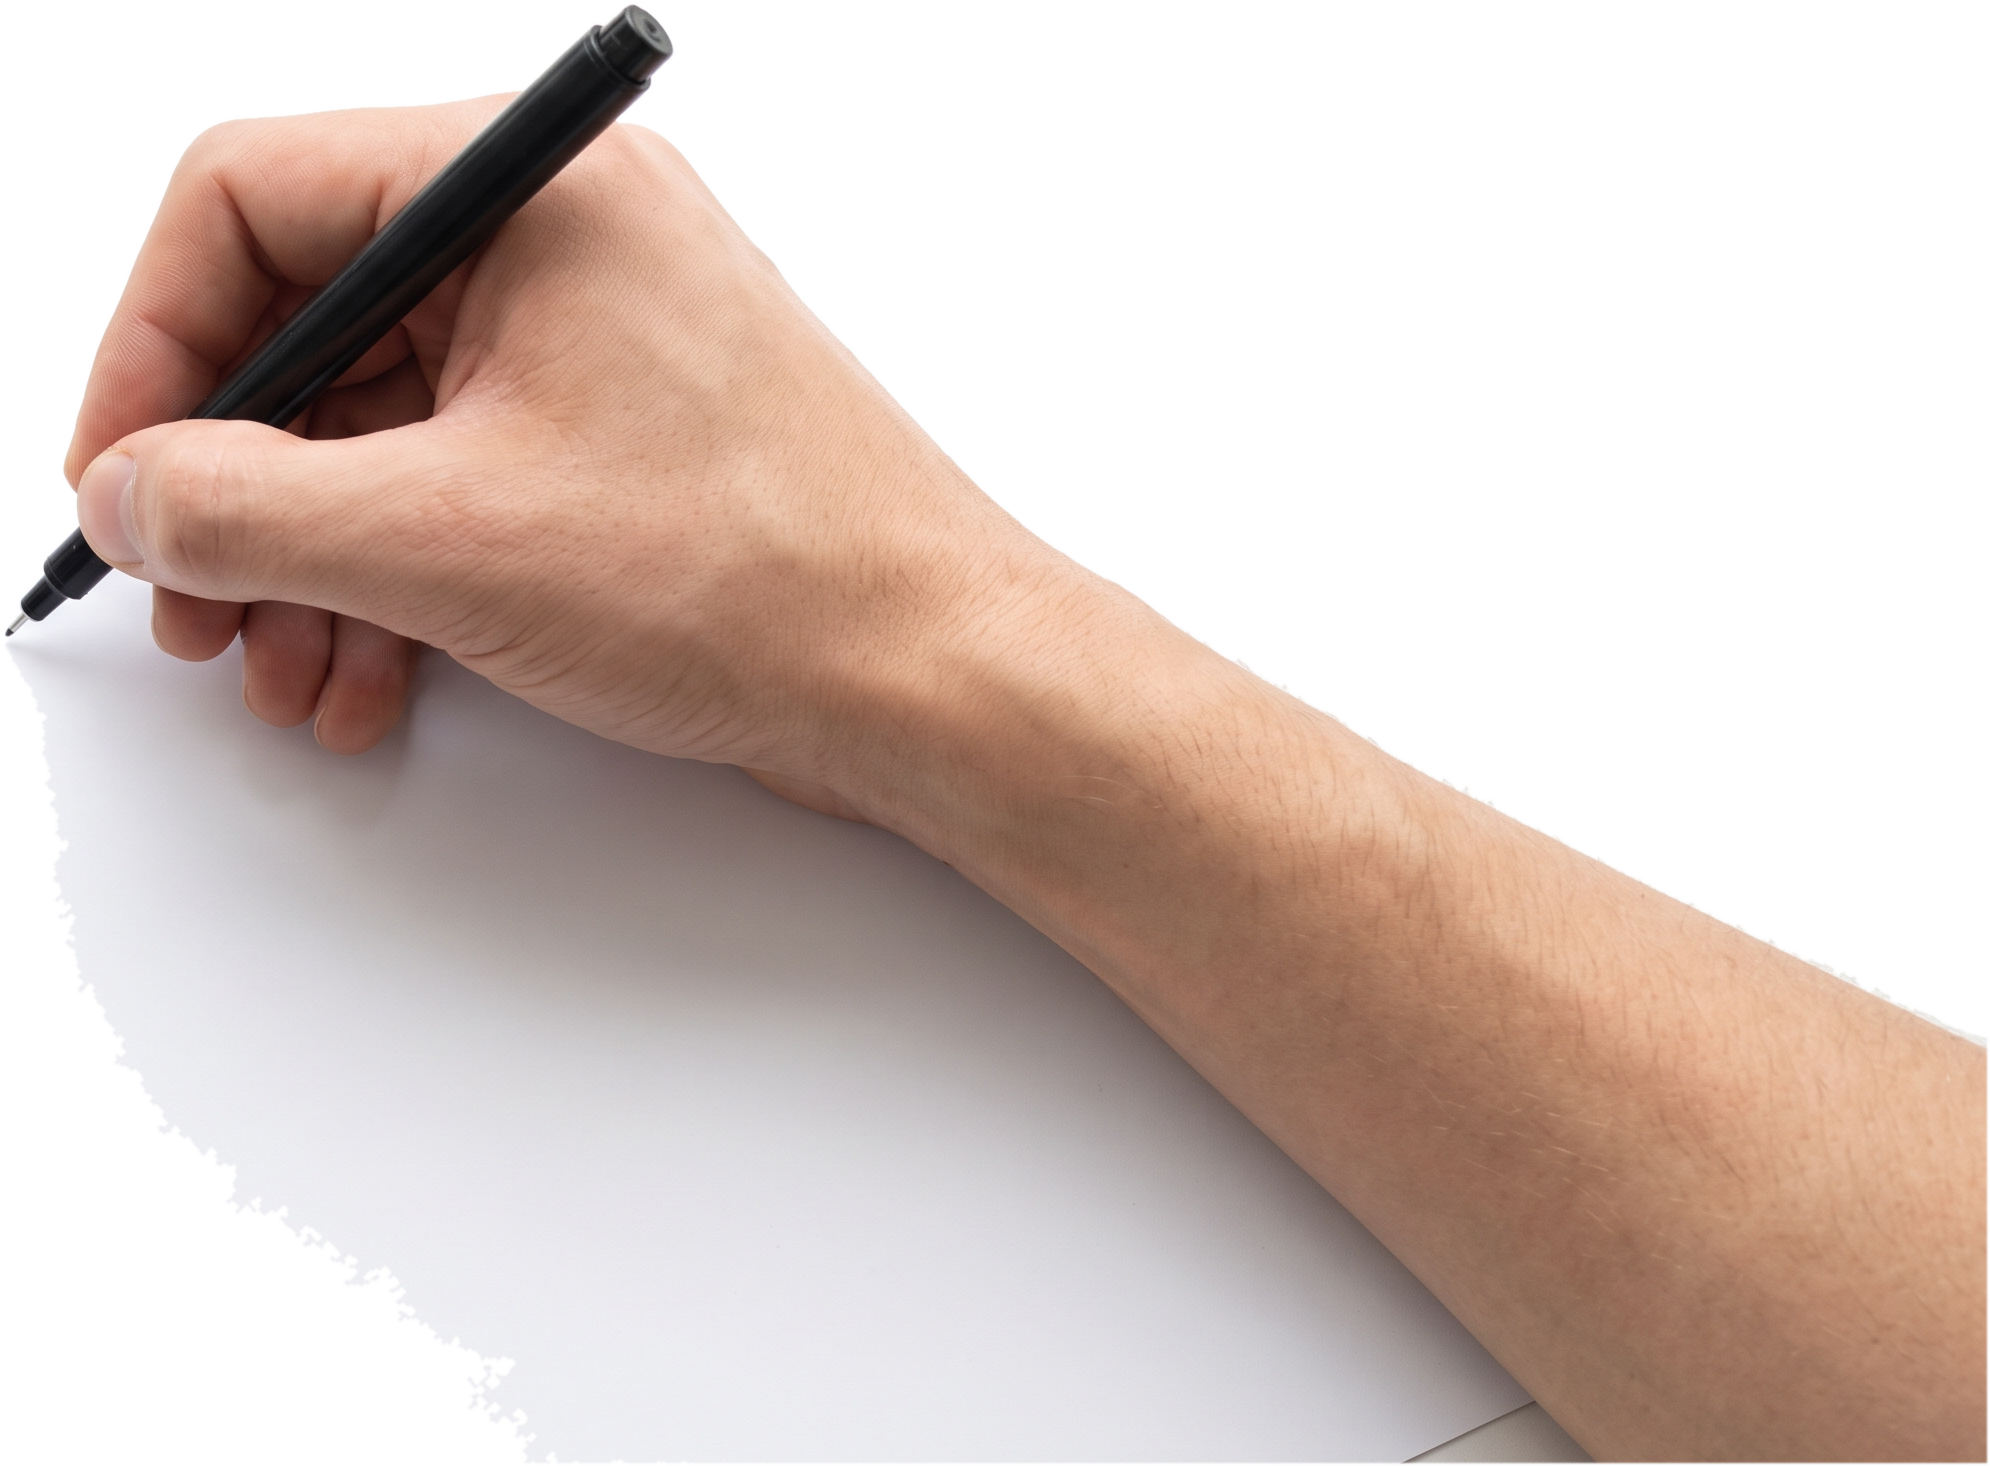
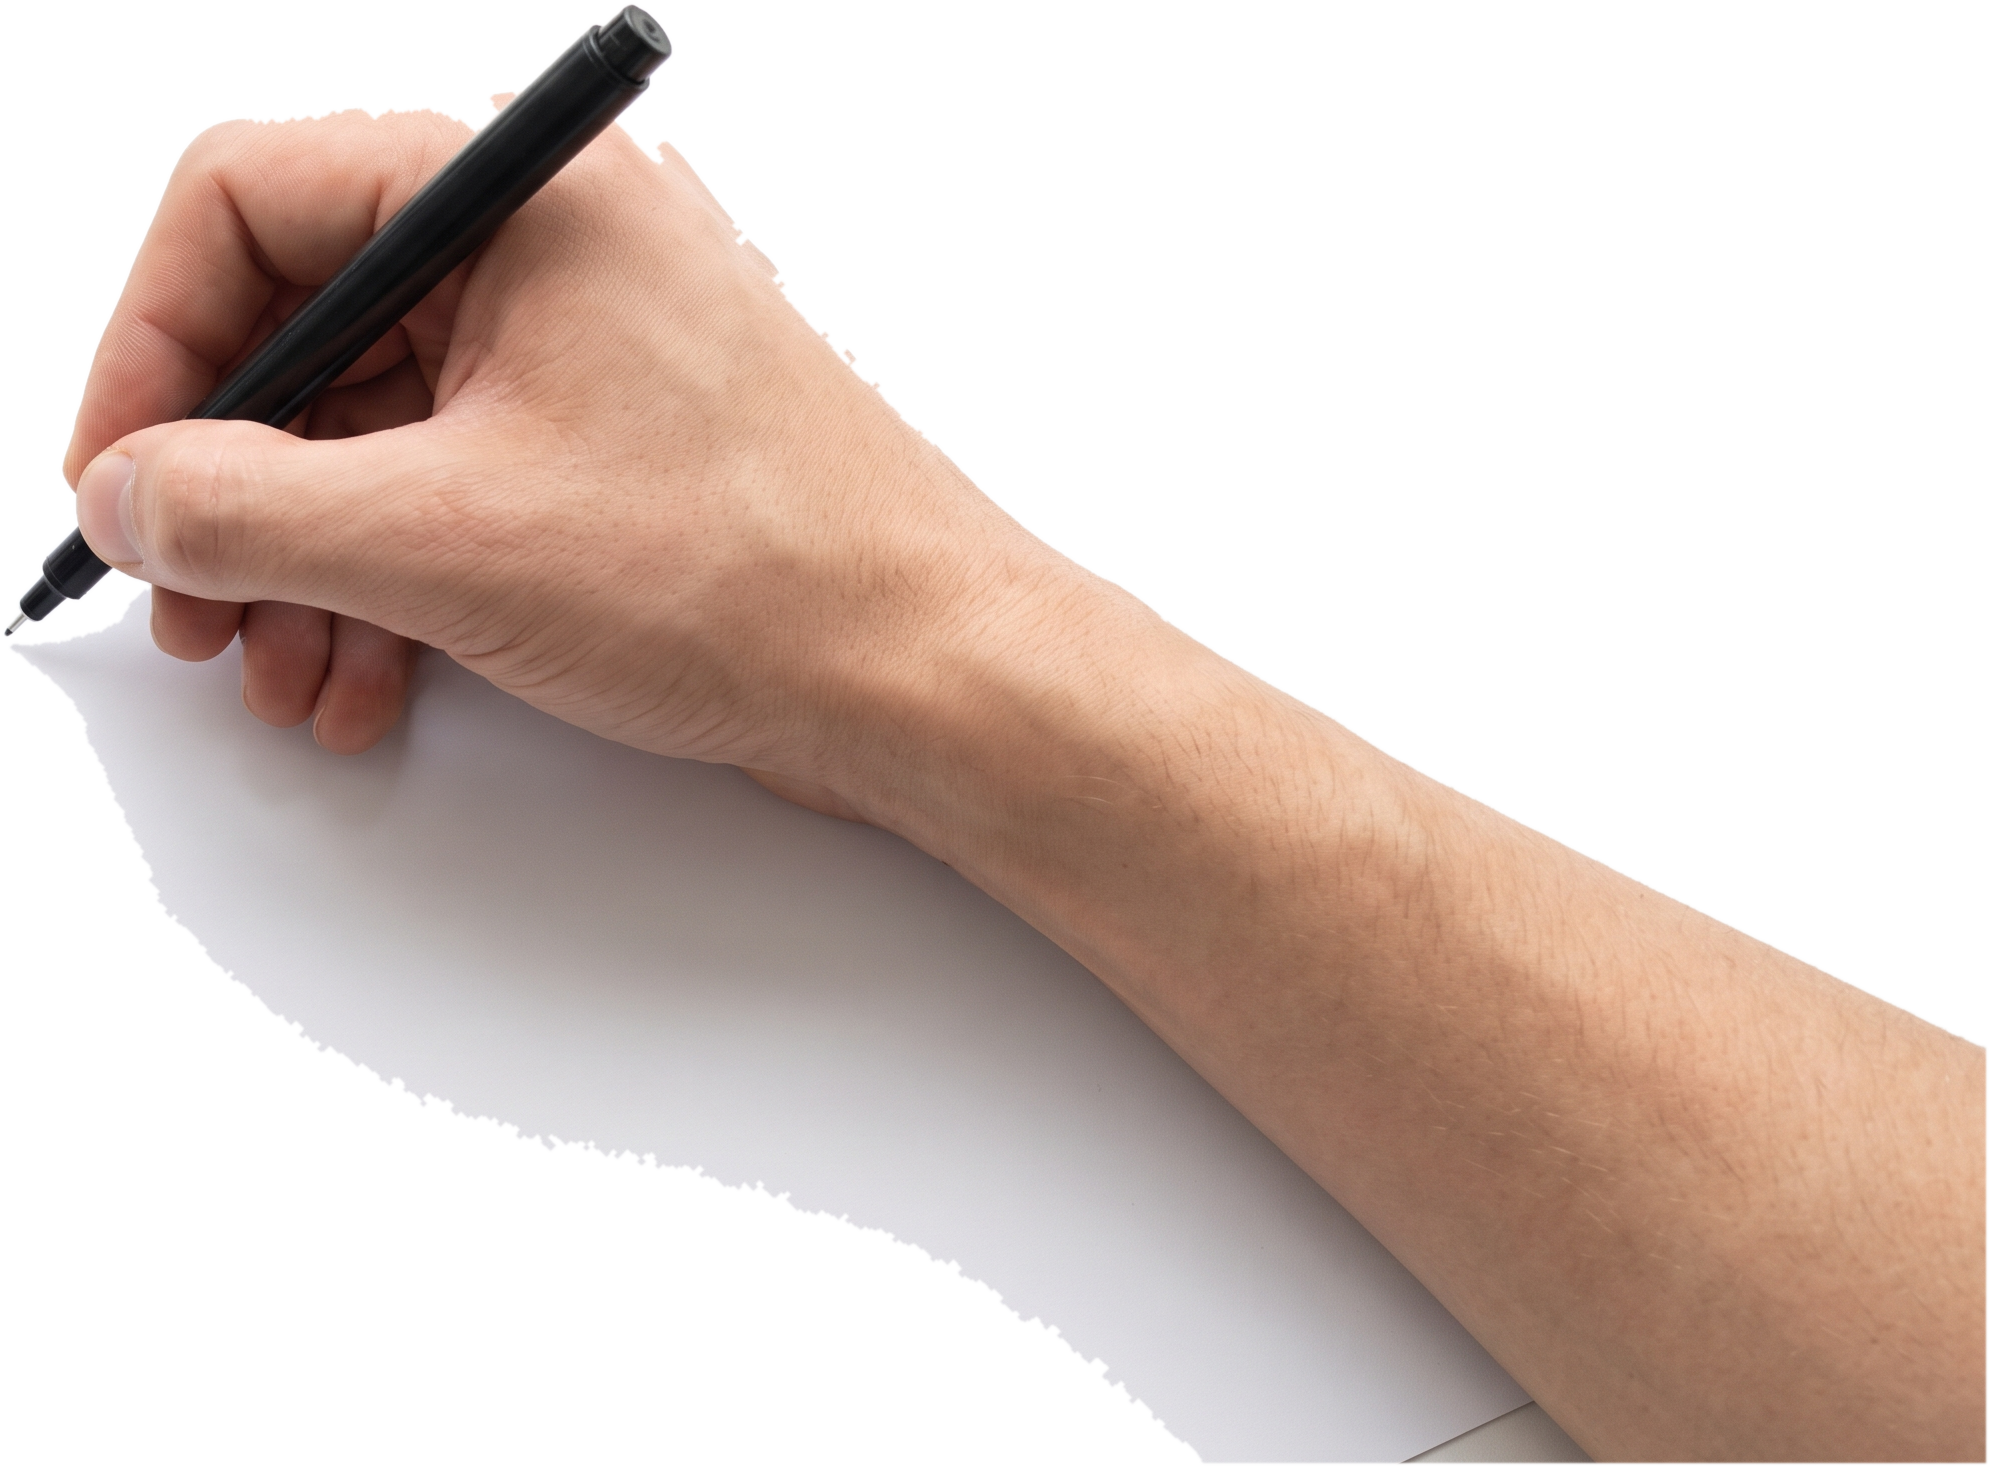
Updates

diff --git a/demo.html b/demo.html
@@ -234,7 +234,7 @@
       
       <!-- 실사 손 오버레이 (hand.png v5 기반) -->
       <div id="penOverlay" class="pen-overlay">
-        <img id="handImg" src="/hand.png?v=11" alt="실사 손" style="width: 100%; height: 100%; object-fit: fill;" />
+        <img id="handImg" src="/hand.png?v=12" alt="실사 손" style="width: 100%; height: 100%; object-fit: fill;" />
       </div>
 
       <div class="scene-words" id="sceneWords"></div>
@@ -345,8 +345,8 @@ const SCENE_WORDS_CONFIG = [
 sceneCta.textContent = "데이터를 불러오는 중입니다...";
 
 Promise.all([
-  fetch('/metric-scenes.json?v=11').then(res => res.json()),
-  fetch('/hand-meta.json?v=11').then(res => res.json())
+  fetch('/metric-scenes.json?v=12').then(res => res.json()),
+  fetch('/hand-meta.json?v=12').then(res => res.json())
 ]).then(([sceneData, handData]) => {
   scenesData = sceneData.scenes;
   handMeta = handData;
@@ -360,6 +360,14 @@ function resetScene() {
   if (window.speechSynthesis) window.speechSynthesis.cancel();
   sceneState = 'idle';
   runToken++;
+
+  // 장면에 따른 가로세로 종횡비 동적 교정 (펜 오차 100% 보정용)
+  if (currentSceneIndex === 0) {
+    sceneStage.style.aspectRatio = '1200 / 691';
+  } else {
+    // 등대와 돛단배는 1100 / 613
+    sceneStage.style.aspectRatio = '1100 / 613';
+  }
   
   // 모든 렌더링 상태 비우기
   sceneVideo.style.opacity = '0';
@@ -525,7 +533,7 @@ function getSection(y) {
   }
 }
 
-// 실사 손 위치 배치 함수 (bottom + right clamp 적용)
+// 실사 손 위치 배치 함수 (균일 스케일 1.36 비율 유지 + bottom/right clamp 오프셋 보정)
 function applyPenTransform(x, y, rot) {
   if (!scenesData || !handMeta) return;
   const data = scenesData[currentSceneIndex];
@@ -542,36 +550,30 @@ function applyPenTransform(x, y, rot) {
   const screenX = x * scaleX;
   const screenY = y * scaleY;
   
-  // R7/R9 손 이식 공식: s = (화면높이 * 0.5) / h
-  let h_screen = rect.height * 0.5;
-  const s = h_screen / handMeta.h;
-  let w_screen = handMeta.w * s;
+  // 수정 1 규칙: 균일 스케일 적용 (s 하나만 사용)
+  const s = (rect.height * 0.55) / handMeta.h;
+  const w_screen = handMeta.w * s;
+  const h_screen = handMeta.h * s;
   
-  let tipX_screen = handMeta.tipX * s;
-  let tipY_screen = handMeta.tipY * s;
+  const tipX_screen = handMeta.tipX * s;
+  const tipY_screen = handMeta.tipY * s;
   
   let tx = screenX - tipX_screen;
   let ty = screenY - tipY_screen;
   
-  // 1. 잘린 아래변(bottom) 화면 아래 경계 밖 clamp (50px 안전 마진 추가)
+  // 잘린 아래변(bottom) 화면 아래 경계 밖 clamp (50px 안전 마진 추가, 개별 늘리기 금지)
   if (handMeta.cutEdges && handMeta.cutEdges.includes("bottom")) {
     const bottomEdge = ty + h_screen;
     if (bottomEdge < rect.height + 50) {
-      const diff = (rect.height + 50) - bottomEdge;
-      h_screen += diff;
-      tipY_screen += diff;
-      ty = screenY - tipY_screen;
+      ty = rect.height + 50 - h_screen;
     }
   }
 
-  // 2. 잘린 우측변(right) 화면 우측 경계 밖 clamp (50px 안전 마진 추가)
+  // 잘린 우측변(right) 화면 우측 경계 밖 clamp (50px 안전 마진 추가, 개별 늘리기 금지)
   if (handMeta.cutEdges && handMeta.cutEdges.includes("right")) {
     const rightEdge = tx + w_screen;
     if (rightEdge < rect.width + 50) {
-      const diffX = (rect.width + 50) - rightEdge;
-      w_screen += diffX;
-      tipX_screen += diffX;
-      tx = screenX - tipX_screen;
+      tx = rect.width + 50 - w_screen;
     }
   }
   
@@ -581,7 +583,7 @@ function applyPenTransform(x, y, rot) {
   penOverlay.style.transform = `translate(${tx}px, ${ty}px)`;
 }
 
-// SVG 드로잉 핵심 로직 (R9 마스크 리빌 및 실사 손 리듬 연출)
+// SVG 드로잉 핵심 로직 (R8 글로벌 항해 + 0.18 감쇠 추종)
 async function startSvgDrawing(sceneId, token) {
   if (!scenesData || !handMeta) return;
   const data = scenesData.find(s => s.id === sceneId);
@@ -595,9 +597,9 @@ async function startSvgDrawing(sceneId, token) {
 
   const paths = data.lineart;
   
-  // 선화 및 원화 경로 바인딩
-  const lineImgHref = (sceneId === 'lighthouse') ? '/line-lighthouse-v2.png?v=11' : '/line-ship.png?v=11';
-  const colorImgHref = (sceneId === 'lighthouse') ? '/metric-lighthouse.png?v=11' : '/metric-ship.png?v=11';
+  // 선화 및 원화 경로 바인딩 (v12 캐시버스터 적용)
+  const lineImgHref = (sceneId === 'lighthouse') ? '/line-lighthouse-v2.png?v=12' : '/line-ship.png?v=12';
+  const colorImgHref = (sceneId === 'lighthouse') ? '/metric-lighthouse.png?v=12' : '/metric-ship.png?v=12';
   
   const lineImg = document.getElementById('lineImg');
   const colorImg = document.getElementById('colorImg');
@@ -643,24 +645,9 @@ async function startSvgDrawing(sceneId, token) {
     return { element: p, length: len };
   });
 
-  // 획수 비례 pause 설정 (부위 전이 240ms, 점프 18px 초과 40ms, 이하 0ms)
-  const strokePauses = paths.map((line, i) => {
-    if (i === 0) return 0;
-    const prevPoints = getPathPoints(paths[i-1].d);
-    const currPoints = getPathPoints(paths[i].d);
-    const dist = Math.hypot(currPoints.startPt.x - prevPoints.endPt.x, currPoints.startPt.y - prevPoints.endPt.y);
-    
-    const prevSec = getSection(prevPoints.startPt.y);
-    const currSec = getSection(currPoints.startPt.y);
-    
-    if (prevSec !== currSec) return 240;
-    if (dist > 18) return 40;
-    return 0;
-  });
-  const totalPause = strokePauses.reduce((acc, p) => acc + p, 0);
-  const totalDrawMs = 3800; // 3.8초 드로잉 타임라인 고정
+  const totalDrawMs = 3800; // 3.8초 드로잉 고정
 
-  // 펜 초기 위치
+  // 펜 초기 위치 잡기
   if (svgInkPaths.length > 0) {
     const firstPath = svgInkPaths[0].element;
     const startPt = firstPath.getPointAtLength(0);
@@ -672,96 +659,57 @@ async function startSvgDrawing(sceneId, token) {
   penOverlay.style.display = 'block';
   penOverlay.style.opacity = '1';
 
-  // 획별 순차 드로잉 루프
-  for (let i = 0; i < svgInkPaths.length; i++) {
-    if (runToken !== token) return;
-    const { element, length } = svgInkPaths[i];
-    const strokeDuration = Math.max((length / Math.max(totalLen, 1)) * (totalDrawMs - totalPause), 10);
-
-    if (i > 0 && strokePauses[i] > 0) {
-      await new Promise(r => setTimeout(r, strokePauses[i]));
-    }
-
-    // 펜 리프트/슬라이드 점프 모션 (18px 이하는 딜레이 없이 펜 즉각 갱신)
-    if (i > 0) {
-      if (runToken !== token) return;
-      const prevPoints = getPathPoints(paths[i-1].d);
-      const currPoints = getPathPoints(paths[i].d);
-      const startPt = prevPoints.endPt;
-      const endPt = currPoints.startPt;
+  // R8 글로벌 항해 루프 (단일 requestAnimationFrame 프레임 루프 + 0.18 감쇠)
+  let drawStart = null;
+  await new Promise(resolve => {
+    function drawFrame(timestamp) {
+      if (runToken !== token) { resolve(); return; }
+      if (!drawStart) drawStart = timestamp;
+      const elapsed = timestamp - drawStart;
+      const progress = Math.min(elapsed / totalDrawMs, 1);
+      const easedProgress = getEasedProgress(progress);
       
-      const dist = Math.hypot(endPt.x - startPt.x, endPt.y - startPt.y);
-      const pauseTime = strokePauses[i];
+      const currentLen = totalLen * easedProgress;
       
-      if (pauseTime === 0) {
-        penX = endPt.x;
-        penY = endPt.y;
-        applyPenTransform(penX, penY, penRot);
-      } else {
-        const liftTotalTime = pauseTime;
-        let liftStart = null;
-        const peakY = (pauseTime === 240) ? -12 : -6;
-        
-        await new Promise(resolve => {
-          function liftFrame(timestamp) {
-            if (runToken !== token) { resolve(); return; }
-            if (!liftStart) liftStart = timestamp;
-            const elapsed = timestamp - liftStart;
-            const progress = Math.min(elapsed / liftTotalTime, 1);
-            
-            const currX = startPt.x + (endPt.x - startPt.x) * progress;
-            const currY = startPt.y + (endPt.y - startPt.y) * progress;
-            const liftY = Math.sin(progress * Math.PI) * peakY;
-            
-            penX += (currX - penX) * 0.3;
-            penY += ((currY + liftY) - penY) * 0.3;
-            
-            applyPenTransform(penX, penY, penRot);
-            
-            if (progress < 1) requestAnimationFrame(liftFrame);
-            else resolve();
-          }
-          requestAnimationFrame(liftFrame);
-        });
+      let targetX = penX;
+      let targetY = penY;
+      
+      let accum = 0;
+      for (let i = 0; i < svgInkPaths.length; i++) {
+        const { element, length } = svgInkPaths[i];
+        if (currentLen >= accum + length) {
+          element.style.strokeDashoffset = '0';
+        } else if (currentLen < accum) {
+          element.style.strokeDashoffset = length;
+        } else {
+          const localLen = currentLen - accum;
+          element.style.strokeDashoffset = length - localLen;
+          
+          const pt = element.getPointAtLength(localLen);
+          targetX = pt.x;
+          targetY = pt.y;
+        }
+        accum += length;
       }
+      
+      // R8 글로벌 감쇠 추종 (0.18)
+      penX += (targetX - penX) * 0.18;
+      penY += (targetY - penY) * 0.18;
+      
+      // 2.1Hz 미세 요동 추가
+      const waveY = Math.sin((timestamp / 1000) * 2 * Math.PI * 2.1) * 1.8;
+      
+      applyPenTransform(penX, penY + waveY, penRot);
+      
+      if (progress < 1) requestAnimationFrame(drawFrame);
+      else resolve();
     }
-
-    // 획 드로잉 루프
-    let drawStart = null;
-    await new Promise(resolve => {
-      function drawFrame(timestamp) {
-        if (runToken !== token) { resolve(); return; }
-        if (!drawStart) drawStart = timestamp;
-        const elapsed = timestamp - drawStart;
-        const progress = Math.min(elapsed / strokeDuration, 1);
-        const easedProgress = getEasedProgress(progress);
-        
-        element.style.strokeDashoffset = length * (1 - easedProgress);
-        
-        const pt = element.getPointAtLength(length * easedProgress);
-        
-        penX += (pt.x - penX) * 0.3;
-        penY += (pt.y - penY) * 0.3;
-        
-        // 2.1Hz 미세 떨림 추가
-        const waveY = Math.sin((timestamp / 1000) * 2 * Math.PI * 2.1) * 1.8;
-        
-        applyPenTransform(penX, penY + waveY, penRot);
-        
-        if (progress < 1) requestAnimationFrame(drawFrame);
-        else resolve();
-      }
-      requestAnimationFrame(drawFrame);
-    });
-
-    // 60ms 사람의 호흡 정지
-    if (runToken !== token) return;
-    await new Promise(r => setTimeout(r, 60));
-  }
+    requestAnimationFrame(drawFrame);
+  });
 
   if (runToken !== token) return;
 
-  // 펜 퇴장 모션
+  // 펜 퇴장 모션 (감쇠 0.18)
   const lastPath = svgInkPaths[svgInkPaths.length - 1];
   const lastPt = lastPath.element.getPointAtLength(lastPath.length);
   const startX = lastPt.x;
@@ -779,8 +727,11 @@ async function startSvgDrawing(sceneId, token) {
       const progress = Math.min(elapsed / retreatTotalTime, 1);
       const easedProgress = getEasedProgress(progress);
       
-      penX += (startX + (endX - startX) * easedProgress - penX) * 0.3;
-      penY += (startY + (endY - startY) * easedProgress - penY) * 0.3;
+      const targetX = startX + (endX - startX) * easedProgress;
+      const targetY = startY + (endY - startY) * easedProgress;
+      
+      penX += (targetX - penX) * 0.18;
+      penY += (targetY - penY) * 0.18;
       
       applyPenTransform(penX, penY, penRot);
       